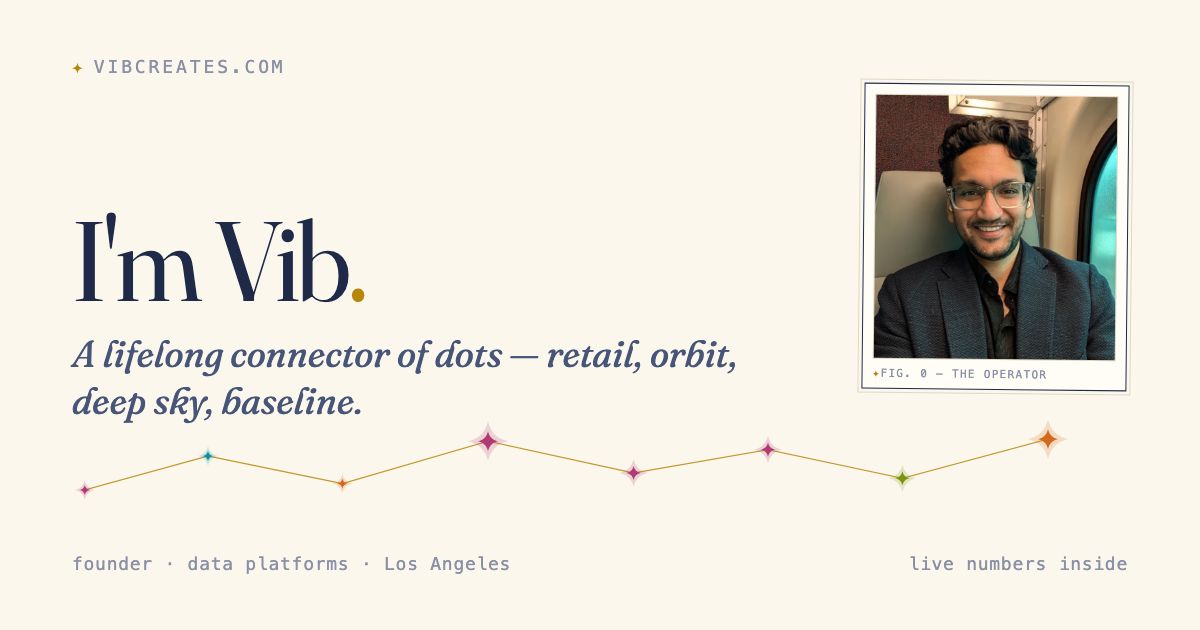
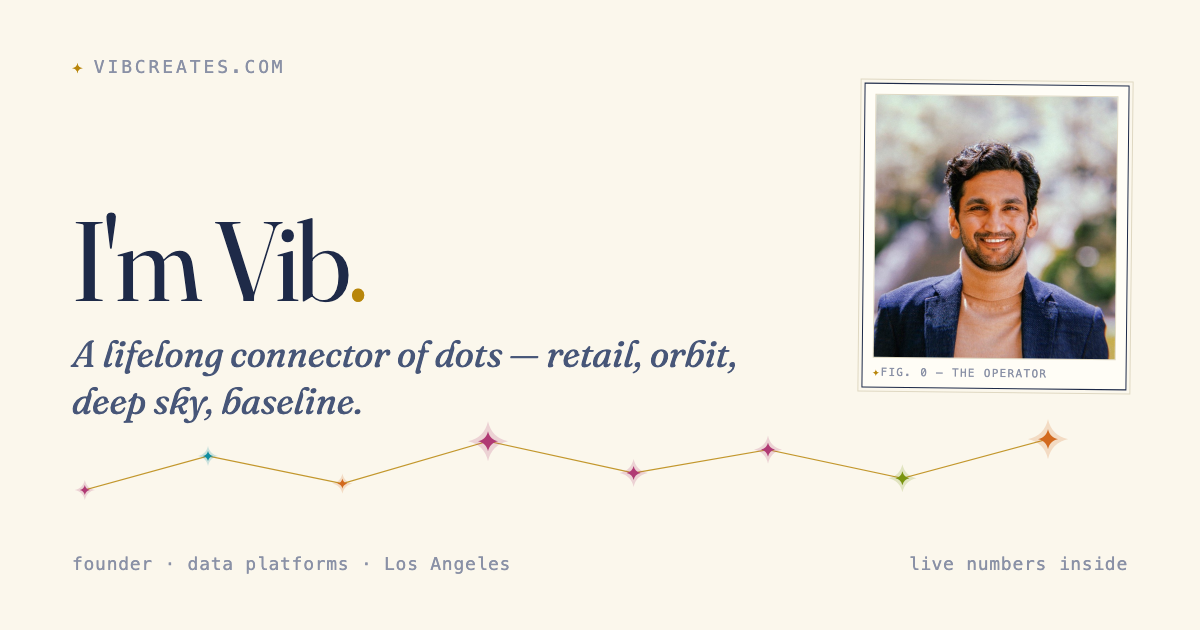
Portrait: professional headshot (2025 session, film edit) replaces train selfie; OG updated

Changed region(s): [[0.7092, 0.1508, 0.9558, 0.6333]]

diff --git a/deploy/landing/index.html b/deploy/landing/index.html
@@ -320,7 +320,7 @@
   </nav>
   </div>
   <figure class="fig rv">
-    <img src="/img/portrait.jpg" alt="Vibhav Gupta" width="697" height="760" />
+    <img src="/img/portrait.jpg" alt="Vibhav Gupta" width="717" height="780" />
     <figcaption><span class="star">✦</span>fig. 0 · me, headed to a meeting</figcaption>
   </figure>
 </header>